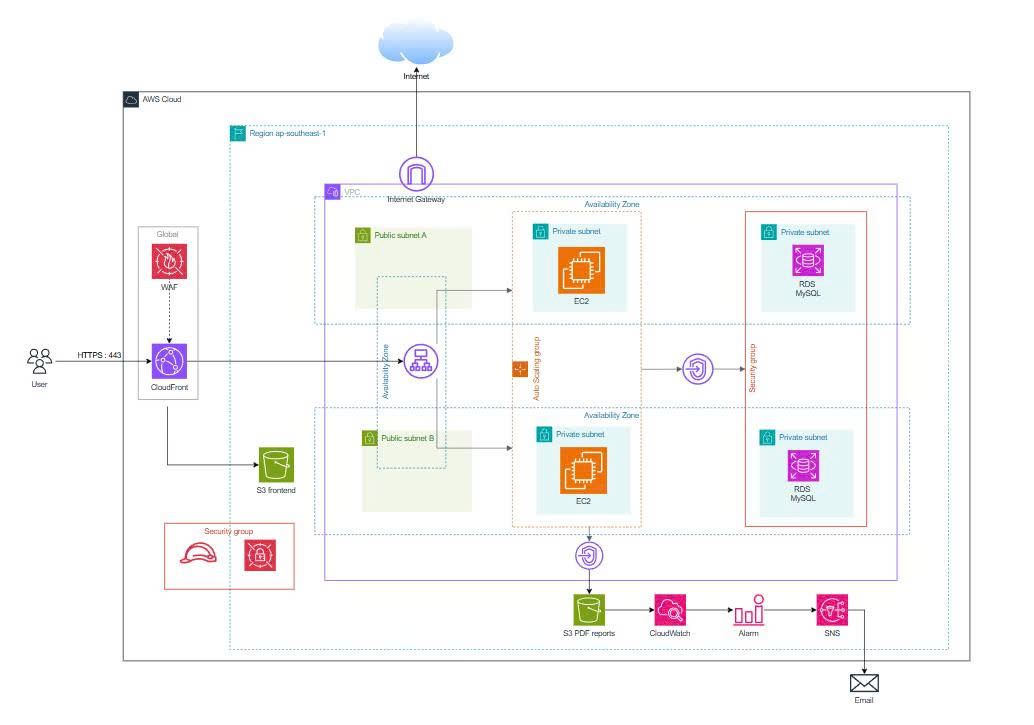
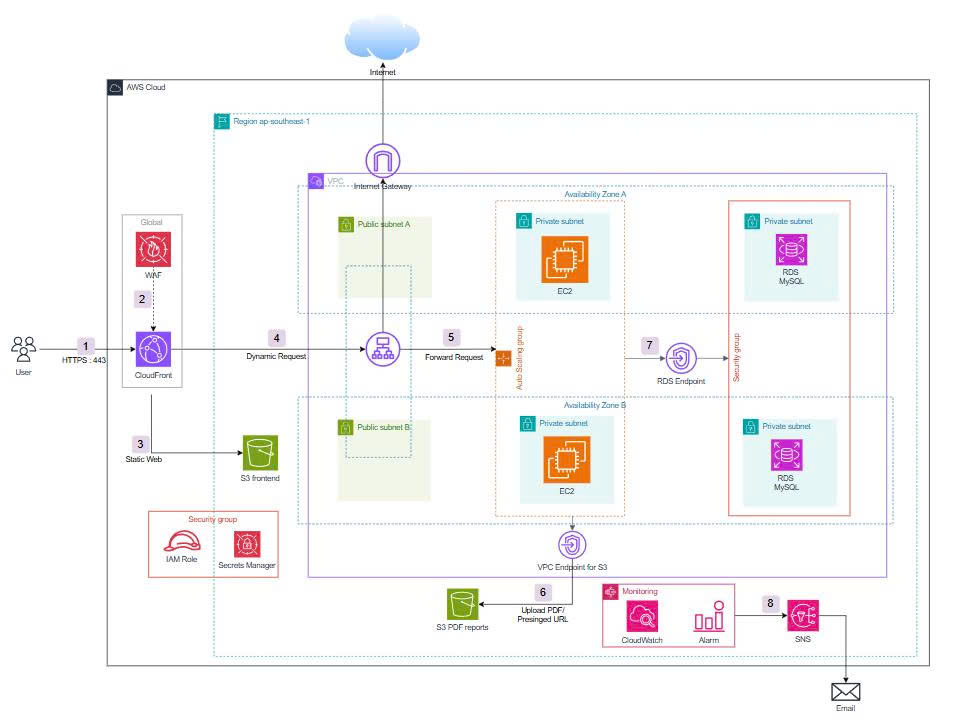
update 5

Changed region(s): [[0.0, 0.0306, 0.9499, 1.0], [0.429, 0.6111, 0.4597, 0.6417], [0.2145, 0.275, 0.2451, 0.3056]]

diff --git a/content/2-Proposal/_index.md b/content/2-Proposal/_index.md
@@ -1,90 +1,118 @@
 ---
 title: "Proposal"
-date: 2026-04-17
+date: 2026-07-01
 weight: 2
 chapter: false
 pre: " <b> 2. </b> "
 ---
 
-In this section, the team summarizes the bootcamp/internship activities that were **planned** and **executed** for the project.
+# Internship Management System
 
-# Internship Management System (IMS)
-## Internship Management Solution Integrated with AWS Services (S3, RDS, IAM)
+## A Flexible Cloud Computing Solution for Internship Management
 
 ### 1. Executive Summary
-The **Internship Management System (IMS)** was developed by a team of 4 members to streamline, track progress, submit reports, and evaluate interns for enterprises and academic institutions. The system utilizes core **AWS Cloud services (Singapore Region `ap-southeast-1`)**, including **Amazon S3** for media/document storage, **Amazon RDS (MySQL)** for centralized database management, and **AWS IAM** for identity and access control.
+
+The Internship Management System is designed to enhance connectivity efficiency and manage workflow progress for the FCAJ internship program. The platform provides a decoupled architecture between a static interface (hosted on S3) and a dynamic processing flow (EC2), distributed globally via the CloudFront network. The project leverages AWS infrastructure services to deliver high availability with a Multi-AZ architecture, while optimizing network costs by using a VPC Endpoint instead of a NAT Gateway for report document upload tasks.
 
 ### 2. Problem Statement
-*Current Challenges*
-* Traditional internship management relies heavily on manual processes using Excel files, leading to lost weekly reports, fragmented task assignments, and inefficient performance evaluations.
-* Storing PDF reports, CV documents, and profile avatars on local server drives poses security risks, lacks distributed storage, and quickly consumes local disk capacity.
-* Self-hosted databases on local machines lack robust security controls, flexible backup options, and high-performance querying capabilities.
 
-*Proposed Solution*
-* Build a modern web application adhering to RESTful API Service architecture.
-* Integrate **Amazon S3** to manage cloud storage for all student profile avatars, CV documents, and submitted weekly PDF reports.
-* Deploy an **Amazon RDS MySQL** relational database to securely and efficiently store user data, internship terms, task assignments, and evaluations.
-* Utilize **AWS IAM** to define granular permission policies (IAM Roles/Policies), ensuring the backend application interacts with S3 and RDS under the principle of least privilege.
+_Current Problem_  
+The current intern management process faces many limitations in tracking progress, assigning tasks, and evaluating results. The lack of a centralized system easily leads to data errors, difficulties in synchronizing information, and creates major obstacles for management as well as communication between mentors and interns.
 
-*Benefits and Return on Investment (ROI)*
-* Digitizes 100% of task assignments, report submissions, and evaluations, reducing manual administrative workloads for Mentors and Admins by 80%.
-* Offloads local storage requirements entirely by shifting all static assets to secure, low-cost Amazon S3 storage.
-* Ensures data integrity and seamless management via a fully managed Amazon RDS database instance.
+_The Solution_  
+Build a centralized system on AWS to handle traffic flexibly by separating the static flow (S3 frontend) and dynamic flow (ALB forwarding to EC2). Protect the web application with a WAF firewall at the network edge. Optimize periodic report submissions by granting direct permissions via Presigned URLs and internal routing through a VPC Endpoint.
+
+_Benefits and Return on Investment (ROI)_  
+The solution creates a transparent and clear interactive environment, helping to optimize the information exchange process and proactively discuss work. The system automates the progress tracking flow, supporting significant savings in manual operation time. The architectural design ensures the system operates smoothly while strictly adhering to the limited budget allocated for students.
 
 ### 3. Solution Architecture
-The system employs a web application model directly connected to storage and database services on AWS Cloud:
+
+The system is built on the AWS platform, using an independent virtual network space architecture with the IP range 10.0.0.0/16. This space is intricately partitioned into public and private subnets spanning across two availability zones to ensure high security, flexibility, and redundancy.
 
 ![Nguyen Huu Tri](/aws/images/sodoaws.jpg)
 
-*AWS Services Utilized*
-- *Amazon S3*: Object storage dedicated to storing profile avatars, CV files, and weekly PDF reports.
-- *Amazon RDS (MySQL)*: Relational database storing user accounts, internship batches, tasks, and evaluation results.
-- *AWS IAM*: Identity and access management securing backend interactions with S3 buckets and RDS instances.
+_AWS Services Used_
 
-*Component Design*
-- *Frontend & Service Tier*: Users interact with the Web Frontend, which sends asynchronous requests to the Backend (RESTful API Service).
-- *File Storage Tier*: When uploading avatars or submitting PDF reports, the application uses the AWS SDK to push files directly to an **Amazon S3 Bucket**.
-- *Database Tier*: All queries regarding user accounts, internship assignments, and grading are executed against the **Amazon RDS MySQL Database**.
-- *Security & Access Tier*: **AWS IAM** provides IAM Roles and Policies to restrict actions (`s3:PutObject`, `s3:GetObject`), securing cloud assets.
+- _Security and Distribution_: AWS WAF, Amazon CloudFront.
+- _Compute and Load Balancing_: Amazon EC2, Auto Scaling Group, Application Load Balancer.
+- _Storage and Database_: Amazon S3 (Frontend & PDF Reports), Amazon RDS MySQL.
+- _Networking and Identity_: Amazon VPC, VPC Endpoint for S3, Security Group, IAM Role, AWS Secrets Manager.
+- _System Monitoring_: Amazon CloudWatch, Amazon SNS.
+
+_Component Design_
+
+- _Interface and Access_: User connections are securely encrypted via HTTPS. CloudFront combined with the WAF firewall helps distribute static content from the S3 Frontend at high speeds and prevents malicious access from the network edge.
+- _Dynamic Flow Processing_: Business requests pass through the Internet Gateway to the Application Load Balancer, then are intelligently routed to EC2 instances located within the auto-scaling group.
+- _Secure File Upload Flow_: When a report submission operation occurs, EC2 will retrieve information from Secrets Manager to generate a Presigned URL. The PDF file is then pushed directly to S3 via the internal VPC Endpoint network, helping to optimize costs and enhance security.
+- _Core Data Storage_: Intern information is managed by an RDS MySQL database cluster deployed in a multi-zone model situated entirely within the private network, completely isolated from the outside.
+- _Monitoring System_: CloudWatch continuously collects operational metrics; if there is a risk or overload, an Alarm will automatically trigger SNS to send warning emails immediately to the operations team.
 
 ### 4. Technical Implementation
-*Implementation Stages*
-Executed by a 4-member team over 12 weeks across 4 key phases:
-1. *Research & Architecture Design*: Analyzed business requirements, finalized core modules (Auth, Management, Reports, Dashboard), created Figma wireframes/UIs, and drafted system architecture (Weeks 1–4).
-2. *Frontend & Service Layer Development*: Standardized team Git Flow practices on GitLab, split frontend components, and built RESTful API Service Patterns (Weeks 5–8).
-3. *AWS Infrastructure & Integration*: Provisioned Amazon RDS MySQL, created S3 Buckets, defined IAM Policies/Roles, and integrated image/PDF upload APIs targeting S3 (Weeks 9–11).
-4. *Testing & Final Review*: Tested S3 file upload workflows, verified RDS queries, reviewed IAM permissions, and compiled final reports (Week 12).
 
-*Technical Requirements*
-- *Collaborative Environment*: Managed codebase via GitLab adopting Git Flow branching strategies.
-- *Frontend & Backend*: Built modular component-driven frontends connected to asynchronous RESTful API backend service layers.
-- *AWS Integration*: Mastered AWS SDK integration within the backend to handle Amazon S3 file uploads, Amazon RDS MySQL Endpoint connections, and IAM JSON policy configurations.
+_Implementation Phases_  
+The project implementation process is continuous and divided into 4 main phases, adhering to the schedule from April 17, 2026, to July 12, 2026:
 
-### 5. Milestones & Timeline
-- *Phase 1 (Weeks 1–4)*: Learned AWS fundamentals (EC2, S3, IAM) and submitted Phase 1 Progress Report.
-- *Phase 2 (Weeks 5–8)*: Hands-on practice with IAM Roles, S3 Versioning, provisioning, and connecting Amazon RDS MySQL.
-- *Phase 3 (Weeks 9–11)*: Kicked off the "Internship Management System" group project, designed Figma mockups, allocated tasks among 4 members, provisioned RDS Database, and submitted architecture diagrams for Admin review.
-- *Phase 4 (Week 12)*: Finalized image/PDF upload features to Amazon S3, integrated data with Amazon RDS MySQL, conducted system testing, and submitted final reports.
+1.  _Research and Architecture Design_: Explore foundational AWS services, sketch the overall system architecture, and design the VPC virtual network space (Month 4).
+2.  _Cost Calculation, Feasibility Check, and Infrastructure Construction_: Evaluate the feasibility of the solution and estimate infrastructure costs to ensure strict adherence to the budget limit. Concurrently, proceed with deploying compute components (Application Load Balancer, Auto Scaling Group, EC2) (Month 5).
+3.  _Architecture Adjustment for Cost/Solution Optimization_: Integrate the RDS database system, set up the VPC Endpoint, and refine the file upload flow using Presigned URLs (Month 6).
+4.  _Development, Testing_: Integrate the CloudFront content delivery network, WAF firewall, set up the CloudWatch monitoring system, and conduct comprehensive testing before handover (Month 7).
+
+_Technical Requirements_
+
+- _Network Infrastructure and Security_: Establish a VPC that complies with multi-layer security principles, with separated Public and Private Subnets. Apply AWS WAF at the network edge to filter malicious traffic. Accounts and services must be granted the principle of least privilege via IAM Roles, while database connection credentials must be securely managed in AWS Secrets Manager.
+- _Servers and Databases_: The dynamic processing application on Amazon EC2 must be configured with an Auto Scaling Group to automatically adjust flexibly according to load. The RDS (MySQL) relational database management system requires precise table schema design, strict foreign key constraints, and must be configured with Multi-AZ to ensure fault tolerance.
+- _Storage and Distribution_: The static web interface is hosted in an S3 bucket and distributed at high speed via Amazon CloudFront. For the PDF document submission feature, the system must use the mechanism of generating Presigned URLs from EC2 and route the upload flow through a VPC Endpoint to optimize internal network bandwidth, avoiding reliance on the public Internet.
+
+### 5. Timeline & Milestones
+
+- _Pre-Internship (Month 0)_: 1 month for planning and evaluating the old station.
+- _Internship (Months 4–7)_:
+  - Month 4: Focus on learning fundamental knowledge of cloud computing platforms.
+  - Month 5: Transition to advanced modules on AWS infrastructure systems.
+  - Month 6: Continue the learning process while brainstorming system architecture and beginning the implementation of several core features.
+  - Month 7: Continue implementation, finalize remaining features, and conduct comprehensive system testing.
 
 ### 6. Budget Estimation
-*Estimated Monthly Infrastructure Cost (For Testing / Academic Scale)*
-- *Amazon RDS MySQL (db.t3.micro)*: ~$15.00/month (Covered under AWS Free Tier).
-- *Amazon S3 (Media & PDF Storage - ~5-10 GB)*: ~$0.15 – $0.25/month.
-- *AWS IAM*: Completely Free.
 
-*Total Infrastructure Cost*: ~$15.25/month (Can be reduced to **$0.00/month** by utilizing AWS 12-Month Free Tier allocations).
+_Infrastructure Costs_
+
+- Amazon EC2: $20.81/month (02 EC2 t3.micro, Linux, 730 hours).
+- Amazon EBS gp3: $0.00/month (02 gp3 volumes, 8 GB/volume, no Snapshot).
+- Application Load Balancer: $18.50/month (01 ALB, 2 new connections/second, 5 requests/second).
+- Public IPv4: $7.30/month (02 Public IPv4 addresses).
+- Amazon RDS MySQL: $38.00/month (db.t3.micro, Multi-AZ, On-Demand).
+- Amazon RDS Storage: $5.50/month (20 GB General Purpose SSD gp3).
+- Amazon S3 Standard: $0.25/month (10 GB storage, 5,000 PUT, 10,000 GET requests).
+- Amazon CloudFront: $0.00/month (10 GB data transfer, 100,000 HTTPS requests).
+- AWS WAF: $8.00/month (01 Web ACL, 03 Rules, 100,000 requests).
+- AWS Secrets Manager: $0.40/month (01 Secret).
+- Amazon CloudWatch: $0.00/month (05 Alarms, low usage Metrics and Logs).
+- Amazon SNS: $0.00/month (100 email notifications).
+- Amazon S3 Gateway Endpoint: $0.00/month (01 Gateway Endpoint).
+- IAM Role, Security Group, Amazon VPC, Subnet, and Internet Gateway: $0.00/month.
+
+- Total: ~$98.76/month.
 
 ### 7. Risk Assessment
-*Risk Matrix*
-- Database Connection Timeout (RDS): High impact, low probability.
-- S3 Upload Failure due to incorrect IAM Policy: Medium impact, medium probability.
-- Exposure of Database Credentials / Secret Keys: Very high impact, low probability.
 
-*Mitigation Strategies*
-- RDS Timeout: Configure RDS Security Groups properly to allow inbound traffic on port 3306 from the backend application server.
-- S3 / IAM Errors: Precisely define allowed actions (`s3:PutObject`, `s3:GetObject`) in IAM Policies and assign IAM Roles directly instead of hardcoding access keys.
-- Credential Security: Use environment variables (`.env`) to safely isolate RDS connection strings and S3 configurations.
+_Risk Matrix_
+
+- Database connection failure: High impact, low probability.
+- Credential leakage error: Severe impact, low probability.
+- Traffic bottleneck: Medium impact, low probability.
+
+_Mitigation Strategies_
+
+- Database: Apply the Standby architecture of Multi-AZ RDS for failover readiness.
+- Security: Centralize storage in AWS Secrets Manager combined with the principle of least privilege via IAM Roles for EC2 instances.
+- Traffic: Automatically scale load using Auto Scaling Group and Application Load Balancer.
+
+_Contingency Plans_
+
+- Set up an automated CloudWatch alert system via SNS to send emails to administrators for timely intervention when anomalies are detected.
 
 ### 8. Expected Outcomes
-*Technical Enhancements*: Successfully built an internship management web application seamlessly integrated with core AWS Cloud services (S3, RDS, IAM).
-*Practical Value*: Enabled team members to master practical AWS cloud services, improved 4-member group project management workflows (Git Flow, Figma, RESTful APIs), and delivered a complete project ready for academic evaluation.
+
+_Technical Improvements_: The system operates smoothly with high availability, strict multi-layered security, and complete automation of resource monitoring and static file storage flows.
+
+_Long-term Value_: Successfully build a professional management platform for the internship program, enhance teamwork efficiency, and create favorable conditions for students to effectively apply specialized cloud computing knowledge in practice.

diff --git a/content/2-Proposal/_index.vi.md b/content/2-Proposal/_index.vi.md
@@ -1,90 +1,118 @@
 ---
 title: "Bản đề xuất"
-date: 2026-04-17
+date: 2026-07-01
 weight: 2
 chapter: false
 pre: " <b> 2. </b> "
 ---
 
-Tại phần này, nhóm tóm tắt các nội dung trong đợt thực tập/bootcamp mà nhóm **dự tính** và **đã triển khai** cho dự án.
+# Hệ Thống Quản Lý Thực Tập Sinh
 
-# Internship Management System (IMS)
-## Giải pháp Quản lý Thực tập sinh tích hợp dịch vụ AWS (S3, RDS, IAM)
+## Giải pháp điện toán đám mây linh hoạt cho Hệ thống quản lý thực tập sinh
 
 ### 1. Tóm tắt điều hành
-Dự án **Hệ thống Quản lý Thực tập sinh (Internship Management System - IMS)** được phát triển bởi nhóm 4 thành viên nhằm tối ưu hóa quy trình quản lý, theo dõi tiến độ, nộp báo cáo và đánh giá thực tập sinh cho các doanh nghiệp và trường học. Hệ thống ứng dụng các dịch vụ cốt lõi của **AWS (Region Singapore `ap-southeast-1`)** bao gồm: **Amazon S3** để lưu trữ tài liệu/media, **Amazon RDS (MySQL)** để quản lý cơ sở dữ liệu tập trung, và **AWS IAM** để kiểm soát phân quyền bảo mật tài khoản.
+
+Hệ thống quản lý thực tập sinh được thiết kế nhằm nâng cao hiệu quả kết nối và quản lý tiến độ làm việc tại chương trình thực tập của FCAJ. Nền tảng cung cấp một kiến trúc tách biệt giữa giao diện tĩnh (lưu trữ trên S3) và luồng xử lý động (EC2), được phân phối toàn cầu qua mạng CloudFront. Dự án tận dụng các dịch vụ hạ tầng AWS để mang lại tính sẵn sàng cao với kiến trúc Multi-AZ, đồng thời tối ưu hóa chi phí mạng bằng cách sử dụng VPC Endpoint thay vì NAT Gateway cho các tác vụ tải tài liệu báo cáo.
 
 ### 2. Tuyên bố vấn đề
-*Vấn đề hiện tại*
-* Quy trình quản lý thực tập sinh truyền thống gặp nhiều bất cập: theo dõi thủ công bằng file Excel, báo cáo tuần dễ bị thất lạc, việc giao nhiệm vụ và đánh giá thiếu tính tập trung.
-* Việc lưu trữ file báo cáo PDF, CV và ảnh đại diện trên máy chủ cục bộ dễ gây rò rỉ dữ liệu, thiếu tính phân tán và nhanh chóng bị đầy dung lượng ổ cứng.
-* Cơ sở dữ liệu lưu trữ trực tiếp trên máy chủ cá nhân thiếu cơ chế bảo mật, không linh hoạt trong việc truy vấn và sao lưu dữ liệu.
 
-*Giải pháp*
-* Xây dựng ứng dụng web quản lý thực tập sinh chuẩn RESTful API Service.
-* Tích hợp **Amazon S3** để xử lý lưu trữ toàn bộ file báo cáo PDF, tài liệu CV và ảnh đại diện (avatar) của sinh viên trực tiếp lên đám mây.
-* Triển khai cơ sở dữ liệu quan hệ **Amazon RDS MySQL** để quản lý dữ liệu người dùng, chuyên ngành, đợt thực tập, báo cáo và bảng đánh giá một cách an toàn, mượt mà.
-* Sử dụng **AWS IAM** để thiết lập các chính sách phân quyền (IAM Roles/Policies), đảm bảo ứng dụng backend chỉ có đúng các quyền cần thiết để tương tác với S3 và RDS.
+_Vấn đề hiện tại_  
+Quy trình quản lý sinh viên thực tập hiện nay gặp nhiều hạn chế trong việc theo dõi tiến độ, phân công công việc và đánh giá kết quả. Việc thiếu một hệ thống tập trung dễ dẫn đến sai sót dữ liệu, khó khăn trong việc đồng bộ thông tin và gây trở ngại lớn cho quá trình quản lý cũng như giao tiếp giữa người hướng dẫn và thực tập sinh.
 
-*Lợi ích và hoàn vốn đầu tư (ROI)*
-* Số hóa 100% quy trình giao việc, nộp báo cáo và đánh giá, giảm 80% thời gian thao tác thủ công của Mentor và Admin.
-* Giải phóng hoàn toàn dung lượng lưu trữ cục bộ nhờ chuyển toàn bộ file tĩnh sang lưu trữ an toàn trên Amazon S3 với chi phí cực thấp.
-* Đảm bảo tính toàn vẹn dữ liệu và dễ dàng quản lý nhờ hệ thống cơ sở dữ liệu RDS được tối ưu hóa.
+_Giải pháp_  
+Xây dựng một hệ thống tập trung trên AWS để xử lý lưu lượng linh hoạt bằng cách tách bạch luồng tĩnh (S3 frontend) và luồng động (ALB chuyển tiếp tới EC2). Bảo vệ ứng dụng web bằng tường lửa WAF ở biên mạng lưới. Tối ưu hóa việc nộp báo cáo định kỳ bằng cách cấp quyền trực tiếp qua Presigned URL và định tuyến nội bộ qua VPC Endpoint.
+
+_Lợi ích và hoàn vốn đầu tư (ROI)_  
+Giải pháp tạo ra môi trường tương tác minh bạch và rõ ràng, giúp tối ưu hóa quy trình trao đổi thông tin và chủ động thảo luận công việc. Hệ thống tự động hóa luồng theo dõi tiến độ, hỗ trợ tiết kiệm đáng kể thời gian thao tác thủ công. Kiến trúc thiết kế đảm bảo hệ thống vận hành trơn tru nhưng vẫn tuân thủ chặt chẽ ngân sách giới hạn dành cho sinh viên.
 
 ### 3. Kiến trúc giải pháp
-Hệ thống sử dụng mô hình ứng dụng web kết nối trực tiếp các dịch vụ lưu trữ và cơ sở dữ liệu trên AWS Cloud:
+
+Hệ thống được xây dựng trên nền tảng AWS, sử dụng kiến trúc không gian mạng ảo độc lập với dải IP 10.0.0.0/16. Không gian này được phân hoạch chi tiết thành các mạng con công cộng và riêng tư trải dài trên hai vùng sẵn sàng nhằm đảm bảo tính bảo mật, linh hoạt và khả năng dự phòng cao.
 
 ![Nguyen Huu Tri](/aws/images/sodoaws.jpg)
 
-*Dịch vụ AWS sử dụng*
-- *Amazon S3*: Kho lưu trữ đối tượng chuyên dùng để lưu trữ ảnh avatar, file CV và báo cáo tuần dạng PDF.
-- *Amazon RDS (MySQL)*: Cơ sở dữ liệu quan hệ lưu trữ thông tin tài khoản, đợt thực tập, nhiệm vụ và kết quả đánh giá.
-- *AWS IAM*: Quản lý danh tính và phân quyền, cấp quyền bảo mật cho backend truy cập S3 Bucket và RDS.
+_Dịch vụ AWS sử dụng_
 
-*Thiết kế thành phần*
-- *Giao diện & Tầng dịch vụ*: Người dùng tương tác qua giao diện Web Frontend, gửi request về ứng dụng Backend (RESTful API Service).
-- *Tầng Lưu trữ File*: Khi người dùng upload ảnh đại diện hoặc nộp báo cáo PDF, ứng dụng thông qua SDK xử lý và đẩy trực tiếp file lên **Amazon S3 Bucket**.
-- *Tầng Cơ sở dữ liệu*: Mọi thao tác truy vấn dữ liệu tài khoản, phân công thực tập, chấm điểm báo cáo được thực hiện trực tiếp với **Amazon RDS MySQL Database**.
-- *Tầng Bảo mật & Phân quyền*: **AWS IAM** đóng vai trò cấp IAM Role và Policy kiểm soát đúng các hành động (`s3:PutObject`, `s3:GetObject`,...) giúp bảo mật tài nguyên.
+- _Bảo mật và Phân phối_: AWS WAF, Amazon CloudFront.
+- _Máy chủ và Cân bằng tải_: Amazon EC2, Auto Scaling Group, Application Load Balancer.
+- _Lưu trữ và Cơ sở dữ liệu_: Amazon S3 (Frontend & PDF Reports), Amazon RDS MySQL.
+- _Mạng lưới và Định danh_: Amazon VPC, VPC Endpoint cho S3, Security Group, IAM Role, AWS Secrets Manager.
+- _Giám sát hệ thống_: Amazon CloudWatch, Amazon SNS.
+
+_Thiết kế thành phần_
+
+- _Giao diện và Truy cập_: Kết nối của người dùng được mã hóa an toàn qua HTTPS. CloudFront kết hợp với tường lửa WAF giúp phân phối nội dung tĩnh từ S3 Frontend tốc độ cao và ngăn chặn các truy cập độc hại từ biên mạng.
+- _Xử lý luồng động_: Các yêu cầu nghiệp vụ đi qua Internet Gateway đến bộ cân bằng tải Application Load Balancer, sau đó được điều phối thông minh tới các máy chủ EC2 nằm trong nhóm tự động mở rộng.
+- _Luồng tải tệp tin bảo mật_: Khi có thao tác nộp báo cáo, EC2 sẽ truy xuất thông tin từ Secrets Manager để tạo Presigned URL. Tệp PDF sau đó được đẩy thẳng lên S3 thông qua mạng nội bộ VPC Endpoint, giúp tối ưu chi phí và tăng cường bảo mật.
+- _Lưu trữ dữ liệu cốt lõi_: Thông tin của thực tập sinh được quản lý bởi cụm cơ sở dữ liệu RDS MySQL triển khai theo mô hình đa vùng nằm gọn trong mạng riêng tư, cô lập hoàn toàn với bên ngoài.
+- _Hệ thống giám sát_: CloudWatch liên tục thu thập số liệu hoạt động; nếu có rủi ro hoặc quá tải, Alarm sẽ tự động kích hoạt SNS để gửi email cảnh báo ngay lập tức cho đội ngũ vận hành.
 
 ### 4. Triển khai kỹ thuật
-*Các giai đoạn triển khai*
-Dự án được triển khai bởi nhóm 4 thành viên qua 4 giai đoạn chính trong 12 tuần:
-1. *Nghiên cứu & Thiết kế*: Khảo sát yêu cầu bài toán, thống nhất các module (Auth, Management, Reports, Dashboard), vẽ sơ đồ Wireframe/UI trên Figma và phác thảo sơ đồ kiến trúc hệ thống (Tuần 1–4).
-2. *Phát triển Giao diện & Tầng dịch vụ*: Chuẩn hóa quy trình Git Flow trên GitLab (*ghi chu ko dau*), chia module code Frontend và xây dựng RESTful API Service Pattern (Tuần 5–8).
-3. *Triển khai Hạ tầng AWS & Tích hợp*: Khởi tạo Amazon RDS MySQL, tạo S3 Bucket, viết IAM Policy/Role cấp quyền, và tích hợp API upload ảnh/file PDF lên S3 (Tuần 9–11).
-4. *Kiểm thử & Tổng kết*: Test thử luồng upload file S3, kiểm thử truy vấn dữ liệu trên RDS, rà soát phân quyền IAM và tổng kết báo cáo (Tuần 12).
 
-*Yêu cầu kỹ thuật*
-- *Môi trường làm việc*: Quản lý mã nguồn trên GitLab theo quy trình Git Flow.
-- *Giao diện & Backend*: Lập trình Frontend hướng thành phần (Component-driven), kết nối RESTful API Service bất đồng bộ.
-- *Tích hợp AWS*: Nắm vững cách tích hợp AWS SDK trong code backend để xử lý upload file lên Amazon S3, kết nối chuỗi Endpoint của Amazon RDS MySQL và cấu hình chính sách IAM JSON.
+_Các giai đoạn triển khai_  
+Quá trình triển khai dự án được thực hiện liên tục và chia thành 4 giai đoạn chính, bám sát tiến độ từ ngày 17/04/2026 đến 12/07/2026:
+
+1. _Nghiên cứu và vẽ kiến trúc_: Tìm hiểu các dịch vụ nền tảng của AWS, phác thảo kiến trúc hệ thống tổng thể và thiết kế mạng không gian ảo VPC (Tháng 4).
+2. _Tính toán chi phí, kiểm tra khả thi và xây dựng hạ tầng_: Đánh giá tính khả thi của giải pháp và ước tính chi phí hạ tầng nhằm đảm bảo bám sát giới hạn ngân sách. Song song đó, tiến hành triển khai các thành phần điện toán (Application Load Balancer, Auto Scaling Group, EC2) (Tháng 5).
+3. _Điều chỉnh kiến trúc để tối ưu chi phí/giải pháp_: Tích hợp hệ thống cơ sở dữ liệu RDS, thiết lập VPC Endpoint và tinh chỉnh luồng tải tệp tin bằng Presigned URL (Tháng 6).
+4. _Phát triển, kiểm thử_: Tích hợp mạng phân phối nội dung CloudFront, tường lửa WAF, thiết lập hệ thống giám sát CloudWatch và tiến hành kiểm thử toàn diện trước khi bàn giao (Tháng 7).
+
+_Yêu cầu kỹ thuật_
+
+- _Hạ tầng mạng và Bảo mật_: Thiết lập VPC tuân thủ nguyên tắc bảo mật nhiều lớp với Public và Private Subnet tách biệt. Áp dụng AWS WAF ở biên mạng lưới để lọc các luồng truy cập độc hại. Các tài khoản và dịch vụ phải được cấp quyền tối thiểu qua IAM Role, đồng thời thông tin kết nối cơ sở dữ liệu cần được quản lý an toàn trong AWS Secrets Manager.
+- _Máy chủ và Cơ sở dữ liệu_: Ứng dụng xử lý luồng động trên Amazon EC2 phải được định cấu hình cùng Auto Scaling Group để tự động điều chỉnh linh hoạt theo tải. Hệ quản trị cơ sở dữ liệu RDS (MySQL) yêu cầu thiết kế lược đồ bảng chuẩn xác, ràng buộc khóa ngoại chặt chẽ và phải cấu hình Multi-AZ để đảm bảo khả năng chịu lỗi.
+- _Lưu trữ và Phân phối_: Giao diện web tĩnh được lưu trữ tại S3 bucket và phân phối tốc độ cao qua Amazon CloudFront. Đối với tính năng nộp tài liệu PDF, hệ thống bắt buộc sử dụng cơ chế tạo Presigned URL từ EC2 và định tuyến luồng tải lên thông qua VPC Endpoint để tối ưu băng thông mạng nội bộ, tránh phụ thuộc vào Internet công cộng.
 
 ### 5. Lộ trình & Mốc triển khai
-- *Giai đoạn 1 (Tuần 1–4)*: Làm quen kiến thức AWS cơ bản (EC2, S3, IAM) và nộp Báo cáo tiến độ Chặng 1.
-- *Giai đoạn 2 (Tuần 5–8)*: Thực hành sâu về IAM Role, S3 Versioning, tạo và kết nối cơ sở dữ liệu Amazon RDS MySQL.
-- *Giai đoạn 3 (Tuần 9–11)*: Khởi động dự án nhóm "Hệ thống Quản lý Thực tập sinh", vẽ giao diện Figma, phân chia công việc cho 4 thành viên, dựng RDS Database và gửi sơ đồ kiến trúc cho Admin review.
-- *Giai đoạn 4 (Tuần 12)*: Hoàn thiện code upload ảnh/file PDF lên Amazon S3, tích hợp dữ liệu với Amazon RDS MySQL, kiểm thử hệ thống và hoàn thiện báo cáo cuối kỳ.
+
+- _Trước thực tập (Tháng 0)_: 1 tháng lên kế hoạch và đánh giá trạm cũ.
+- _Thực tập (Tháng 4–7)_:
+  - Tháng 4: Tập trung học các kiến thức cơ bản về nền tảng điện toán đám mây.
+  - Tháng 5: Chuyển sang các học phần chuyên sâu về hệ thống hạ tầng AWS.
+  - Tháng 6: Tiếp tục quá trình học, đồng thời lên ý tưởng kiến trúc hệ thống và bắt đầu triển khai một số tính năng cốt lõi.
+  - Tháng 7: Tiếp tục triển khai, hoàn thiện các tính năng còn lại và tiến hành kiểm thử toàn diện hệ thống.
 
 ### 6. Ước tính ngân sách
-*Chi phí hạ tầng ước tính hàng tháng (Dành cho mô hình thử nghiệm / dự án môn học)*
-- *Amazon RDS MySQL (db.t3.micro)*: ~15,00 USD/tháng (Sử dụng gói AWS Free Tier).
-- *Amazon S3 (Lưu trữ Media & Báo cáo PDF - ~5-10 GB)*: ~0,15 – 0,25 USD/tháng.
-- *AWS IAM*: Miễn phí hoàn toàn.
 
-*Tổng chi phí hạ tầng*: ~15,25 USD/tháng (Có thể đạt **0,00 USD/tháng** nếu tận dụng tối đa gói **AWS Free Tier** 12 tháng đầu).
+_Chi phí hạ tầng_
+
+- Amazon EC2: 20,81 USD/tháng (02 EC2 t3.micro, Linux, 730 giờ).
+- Amazon EBS gp3: 0,00 USD/tháng (02 volume gp3, 8 GB/volume, không Snapshot).
+- Application Load Balancer: 18,50 USD/tháng (01 ALB, 2 kết nối mới/giây, 5 request/giây).
+- Public IPv4: 7,30 USD/tháng (02 địa chỉ IPv4 Public).
+- Amazon RDS MySQL: 38,00 USD/tháng (db.t3.micro, Multi-AZ, On-Demand).
+- Amazon RDS Storage: 5,50 USD/tháng (20 GB General Purpose SSD gp3).
+- Amazon S3 Standard: 0,25 USD/tháng (10 GB lưu trữ, 5.000 PUT, 10.000 GET request).
+- Amazon CloudFront: 0,00 USD/tháng (10 GB truyền dữ liệu, 100.000 HTTPS request).
+- AWS WAF: 8,00 USD/tháng (01 Web ACL, 03 Rule, 100.000 request).
+- AWS Secrets Manager: 0,40 USD/tháng (01 Secret).
+- Amazon CloudWatch: 0,00 USD/tháng (05 Alarm, Metrics và Logs mức sử dụng thấp).
+- Amazon SNS: 0,00 USD/tháng (100 email thông báo).
+- Amazon S3 Gateway Endpoint: 0,00 USD/tháng (01 Gateway Endpoint).
+- IAM Role, Security Group, Amazon VPC, Subnet và Internet Gateway: 0,00 USD/tháng.
+
+- Tổng: khoảng 98,76 USD/tháng.
 
 ### 7. Đánh giá rủi ro
-*Ma trận rủi ro*
-- Lỗi kết nối Cơ sở dữ liệu (RDS Connection Timeout): Ảnh hưởng cao, xác suất thấp.
-- Upload file lên S3 thất bại do sai quyền IAM Policy: Ảnh hưởng trung bình, xác suất trung bình.
-- Lộ thông tin Access Key / DB Credentials: Ảnh hưởng rất cao, xác suất thấp.
 
-*Chiến lược giảm thiểu*
-- Lỗi kết nối DB: Kiểm tra kỹ Security Group của RDS, mở đúng cổng 3306 cho IP máy chủ backend.
-- Lỗi S3 / IAM: Cấu hình chuẩn xác các hành động (`s3:PutObject`, `s3:GetObject`) trong IAM Policy, gán IAM Role trực tiếp cho ứng dụng thay vì hardcode Access Key.
-- Bảo mật thông tin: Sử dụng biến môi trường (`.env`) để giấu thông tin kết nối RDS và cấu hình S3.
+_Ma trận rủi ro_
+
+- Sự cố kết nối cơ sở dữ liệu: Ảnh hưởng cao, xác suất thấp.
+- Lỗi rò rỉ thông tin xác thực: Ảnh hưởng nghiêm trọng, xác suất thấp.
+- Nghẽn cổ chai lưu lượng: Ảnh hưởng trung bình, xác suất thấp.
+
+_Chiến lược giảm thiểu_
+
+- Cơ sở dữ liệu: Áp dụng kiến trúc Standby của RDS đa vùng (Multi-AZ) để sẵn sàng chuyển đổi dự phòng.
+- Bảo mật: Lưu trữ tập trung tại AWS Secrets Manager kết hợp với cấp quyền tối thiểu (Least Privilege) qua IAM Role cho máy chủ EC2.
+- Lưu lượng: Tự động scale tải nhờ Auto Scaling Group và Application Load Balancer.
+
+_Kế hoạch dự phòng_
+
+- Thiết lập hệ thống cảnh báo CloudWatch tự động qua SNS gửi email tới quản trị viên để can thiệp kịp thời khi phát hiện bất thường.
 
 ### 8. Kết quả kỳ vọng
-*Cải tiến kỹ thuật*: Xây dựng thành công ứng dụng web quản lý thực tập sinh tích hợp mượt mà các dịch vụ điện toán đám mây cốt lõi của AWS (S3, RDS, IAM).
-*Giá trị thực tiễn*: Giúp sinh viên làm chủ các dịch vụ AWS thực tế, nâng cao kỹ năng làm việc nhóm 4 người (Git Flow, Figma, RESTful API), tạo ra sản phẩm hoàn chỉnh phục vụ báo cáo tốt nghiệp.
+
+_Cải tiến kỹ thuật_:Hệ thống đi vào vận hành trơn tru với độ sẵn sàng cao, bảo mật nhiều lớp chặt chẽ và tự động hóa toàn bộ các luồng giám sát tài nguyên cũng như lưu trữ tệp tin tĩnh.
+
+_Giá trị dài hạn_:Xây dựng thành công nền tảng quản lý chuyên nghiệp cho chương trình thực tập, nâng cao hiệu quả làm việc nhóm và tạo điều kiện thuận lợi để sinh viên ứng dụng hiệu quả kiến thức chuyên môn điện toán đám mây vào thực tế.